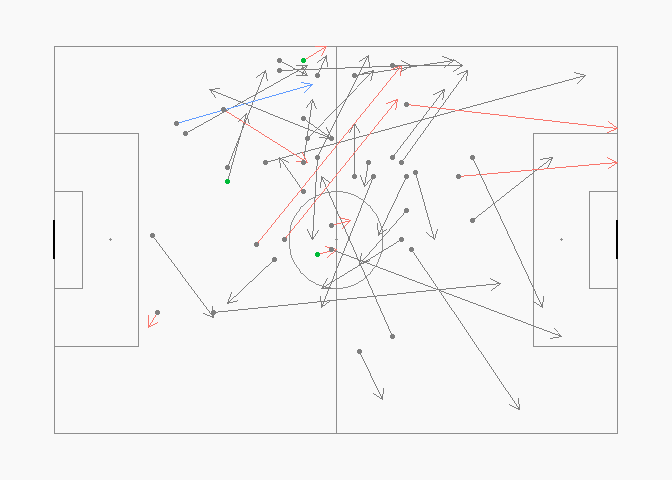
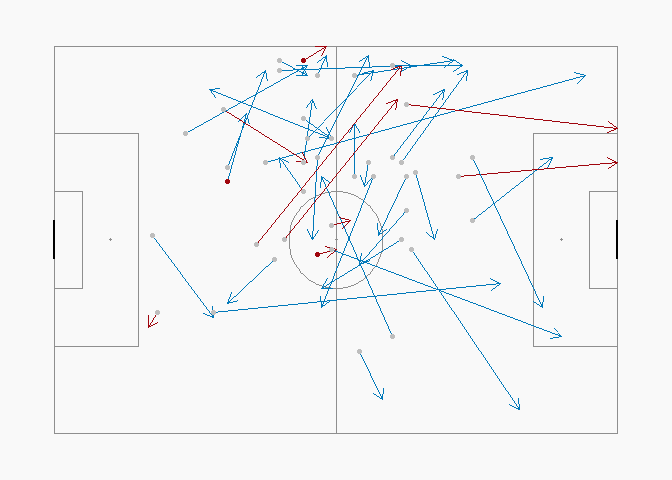
updated passing graphic

diff --git a/shotplots.md b/shotplots.md
@@ -50,7 +50,7 @@ create_Pitch() +
 
 ![](shotplots_files/figure-markdown_github/unnamed-chunk-1-3.png)
 
-This next plot has caused me some trouble. It maps Paul Pogba's passes, in the same game, and assigns color of the arrow based on pass completion and color of the dot based on whether he was under pressure at the time of the pass. My main problem is that the colors are not as I'd prefer (red is incomplete, gray is complete, blue is unknown; green is under pressure). I've commented out some transformations that were doing more harm than good. I'm also assuming NA is complete.
+This next plot maps Paul Pogba's passes, in the same game, and assigns color of the arrow based on pass completion and color of the dot based on whether he was under pressure at the time of the pass. Red dots are under pressure, red passes are incomplete.
 
 ``` r
 passes <- events %>%
@@ -60,26 +60,37 @@ passes$location.x <- unlist(lapply(passes$location, `[[`,1))
 passes$location.y <- unlist(lapply(passes$location, `[[`,2))
 passes$end.location.x <- unlist(lapply(passes$pass.end_location, `[[`,1))
 passes$end.location.y <- unlist(lapply(passes$pass.end_location, `[[`,2))
-#passes$pass.outcome.name[is.na(passes$pass.outcome.name) == TRUE] <- "Complete"
+passes$pass.outcome.name[is.na(passes$pass.outcome.name) == TRUE] <- "Complete"
 passes$pass.outcome.name[passes$pass.outcome.name == "Out"] <- "Incomplete"
 passes$pass.outcome.name[passes$pass.outcome.name == "Pass Offside"] <- "Incomplete"
-#passes <- passes[!(passes$pass.outcome.name == "Unknown"),] 
+passes <- passes[!(passes$pass.outcome.name == "Unknown"),] 
 table(passes$pass.outcome.name)
 ```
 
     ## 
-    ## Incomplete    Unknown 
-    ##        145          9
+    ##   Complete Incomplete 
+    ##        731        145
 
 ``` r
-library(ggthemes)
+passes$pass.outcome.name <- factor(passes$pass.outcome.name, levels = c("Complete", "Incomplete"))
+passes$under_pressure[is.na(passes$under_pressure) == TRUE] <- FALSE
+passes$under_pressure <- factor(passes$under_pressure, levels = c(TRUE, FALSE), labels = c("Pressure", "No Pressure"))
+table(passes$under_pressure)
+```
+
+    ## 
+    ##    Pressure No Pressure 
+    ##         122         754
+
+``` r
 p <- create_Pitch() +
   geom_segment(data = subset(passes, player.name == "Paul Pogba"), aes(x = location.x, y = location.y, 
                                   xend = end.location.x, yend = end.location.y, color = pass.outcome.name), 
                arrow = arrow(length = unit(.3, "cm"))) +
   geom_point(data = subset(passes, player.name == "Paul Pogba"), 
              aes(x = location.x, y = location.y, color = under_pressure)) +
-  guides(color = FALSE)
+  guides(color = FALSE) +
+  scale_color_manual(values = c("#0179ba", "#a0060e", "gray", "#a0060e"))
 p
 ```
 
